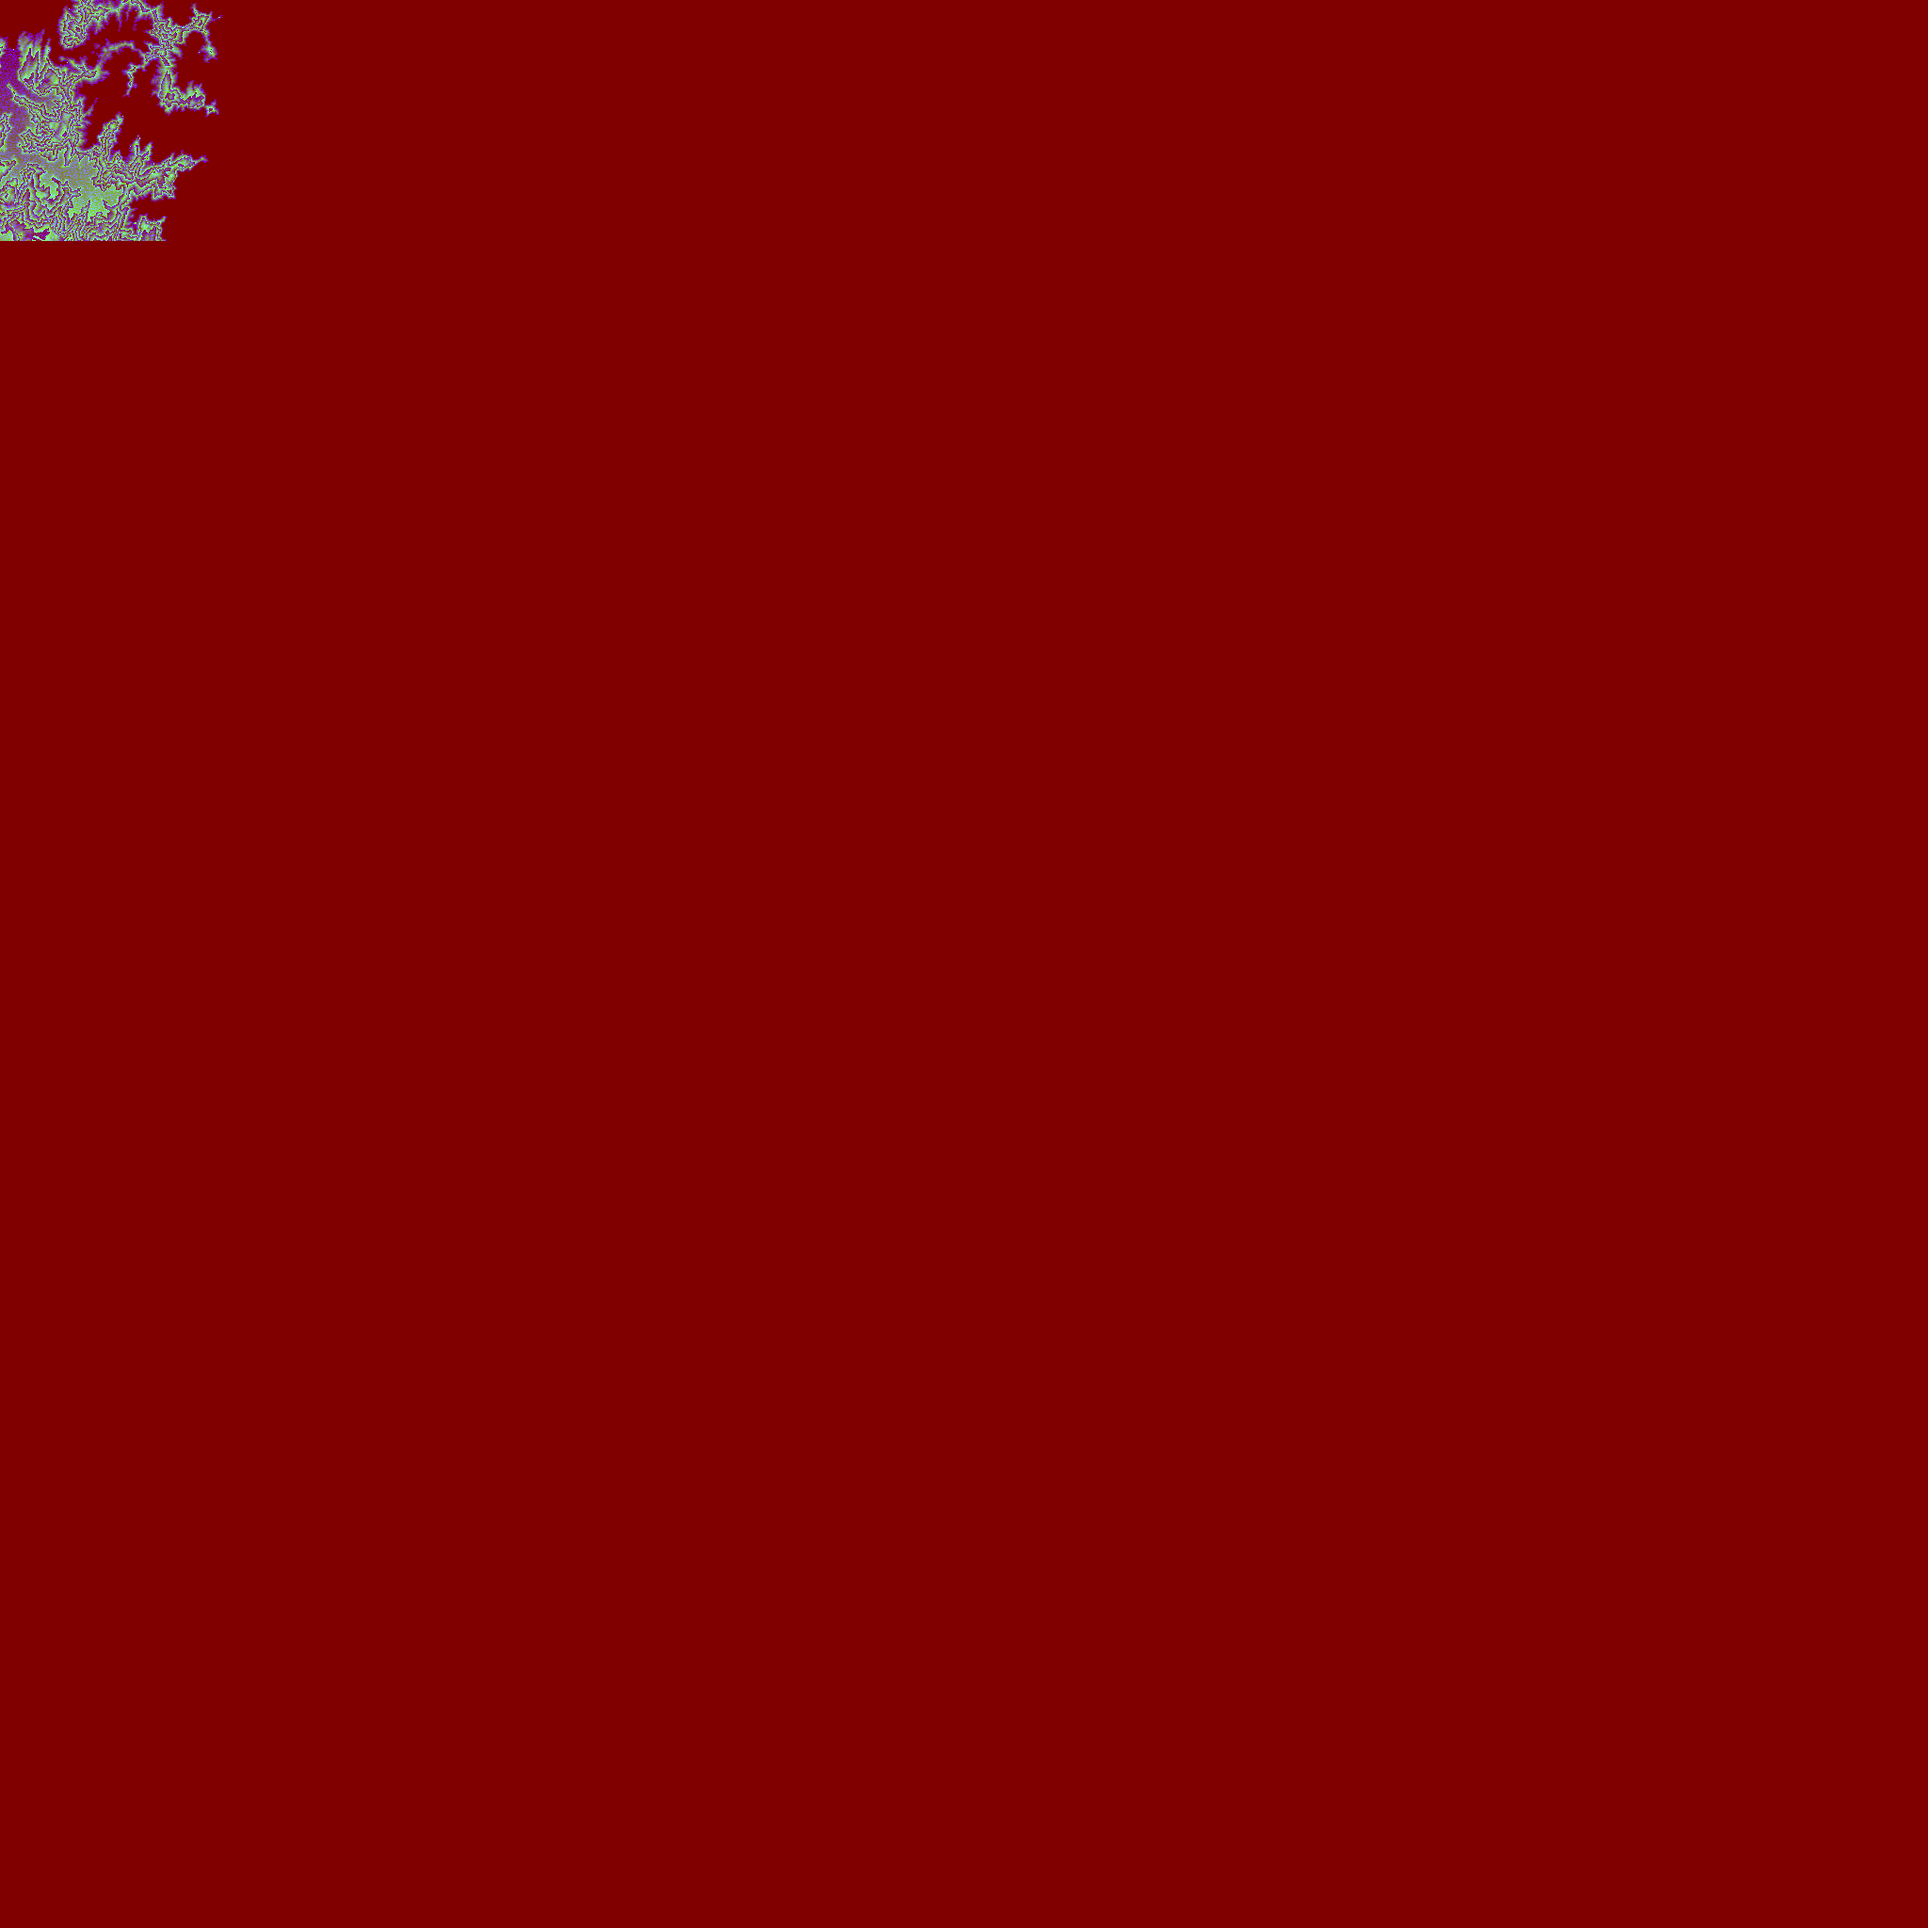
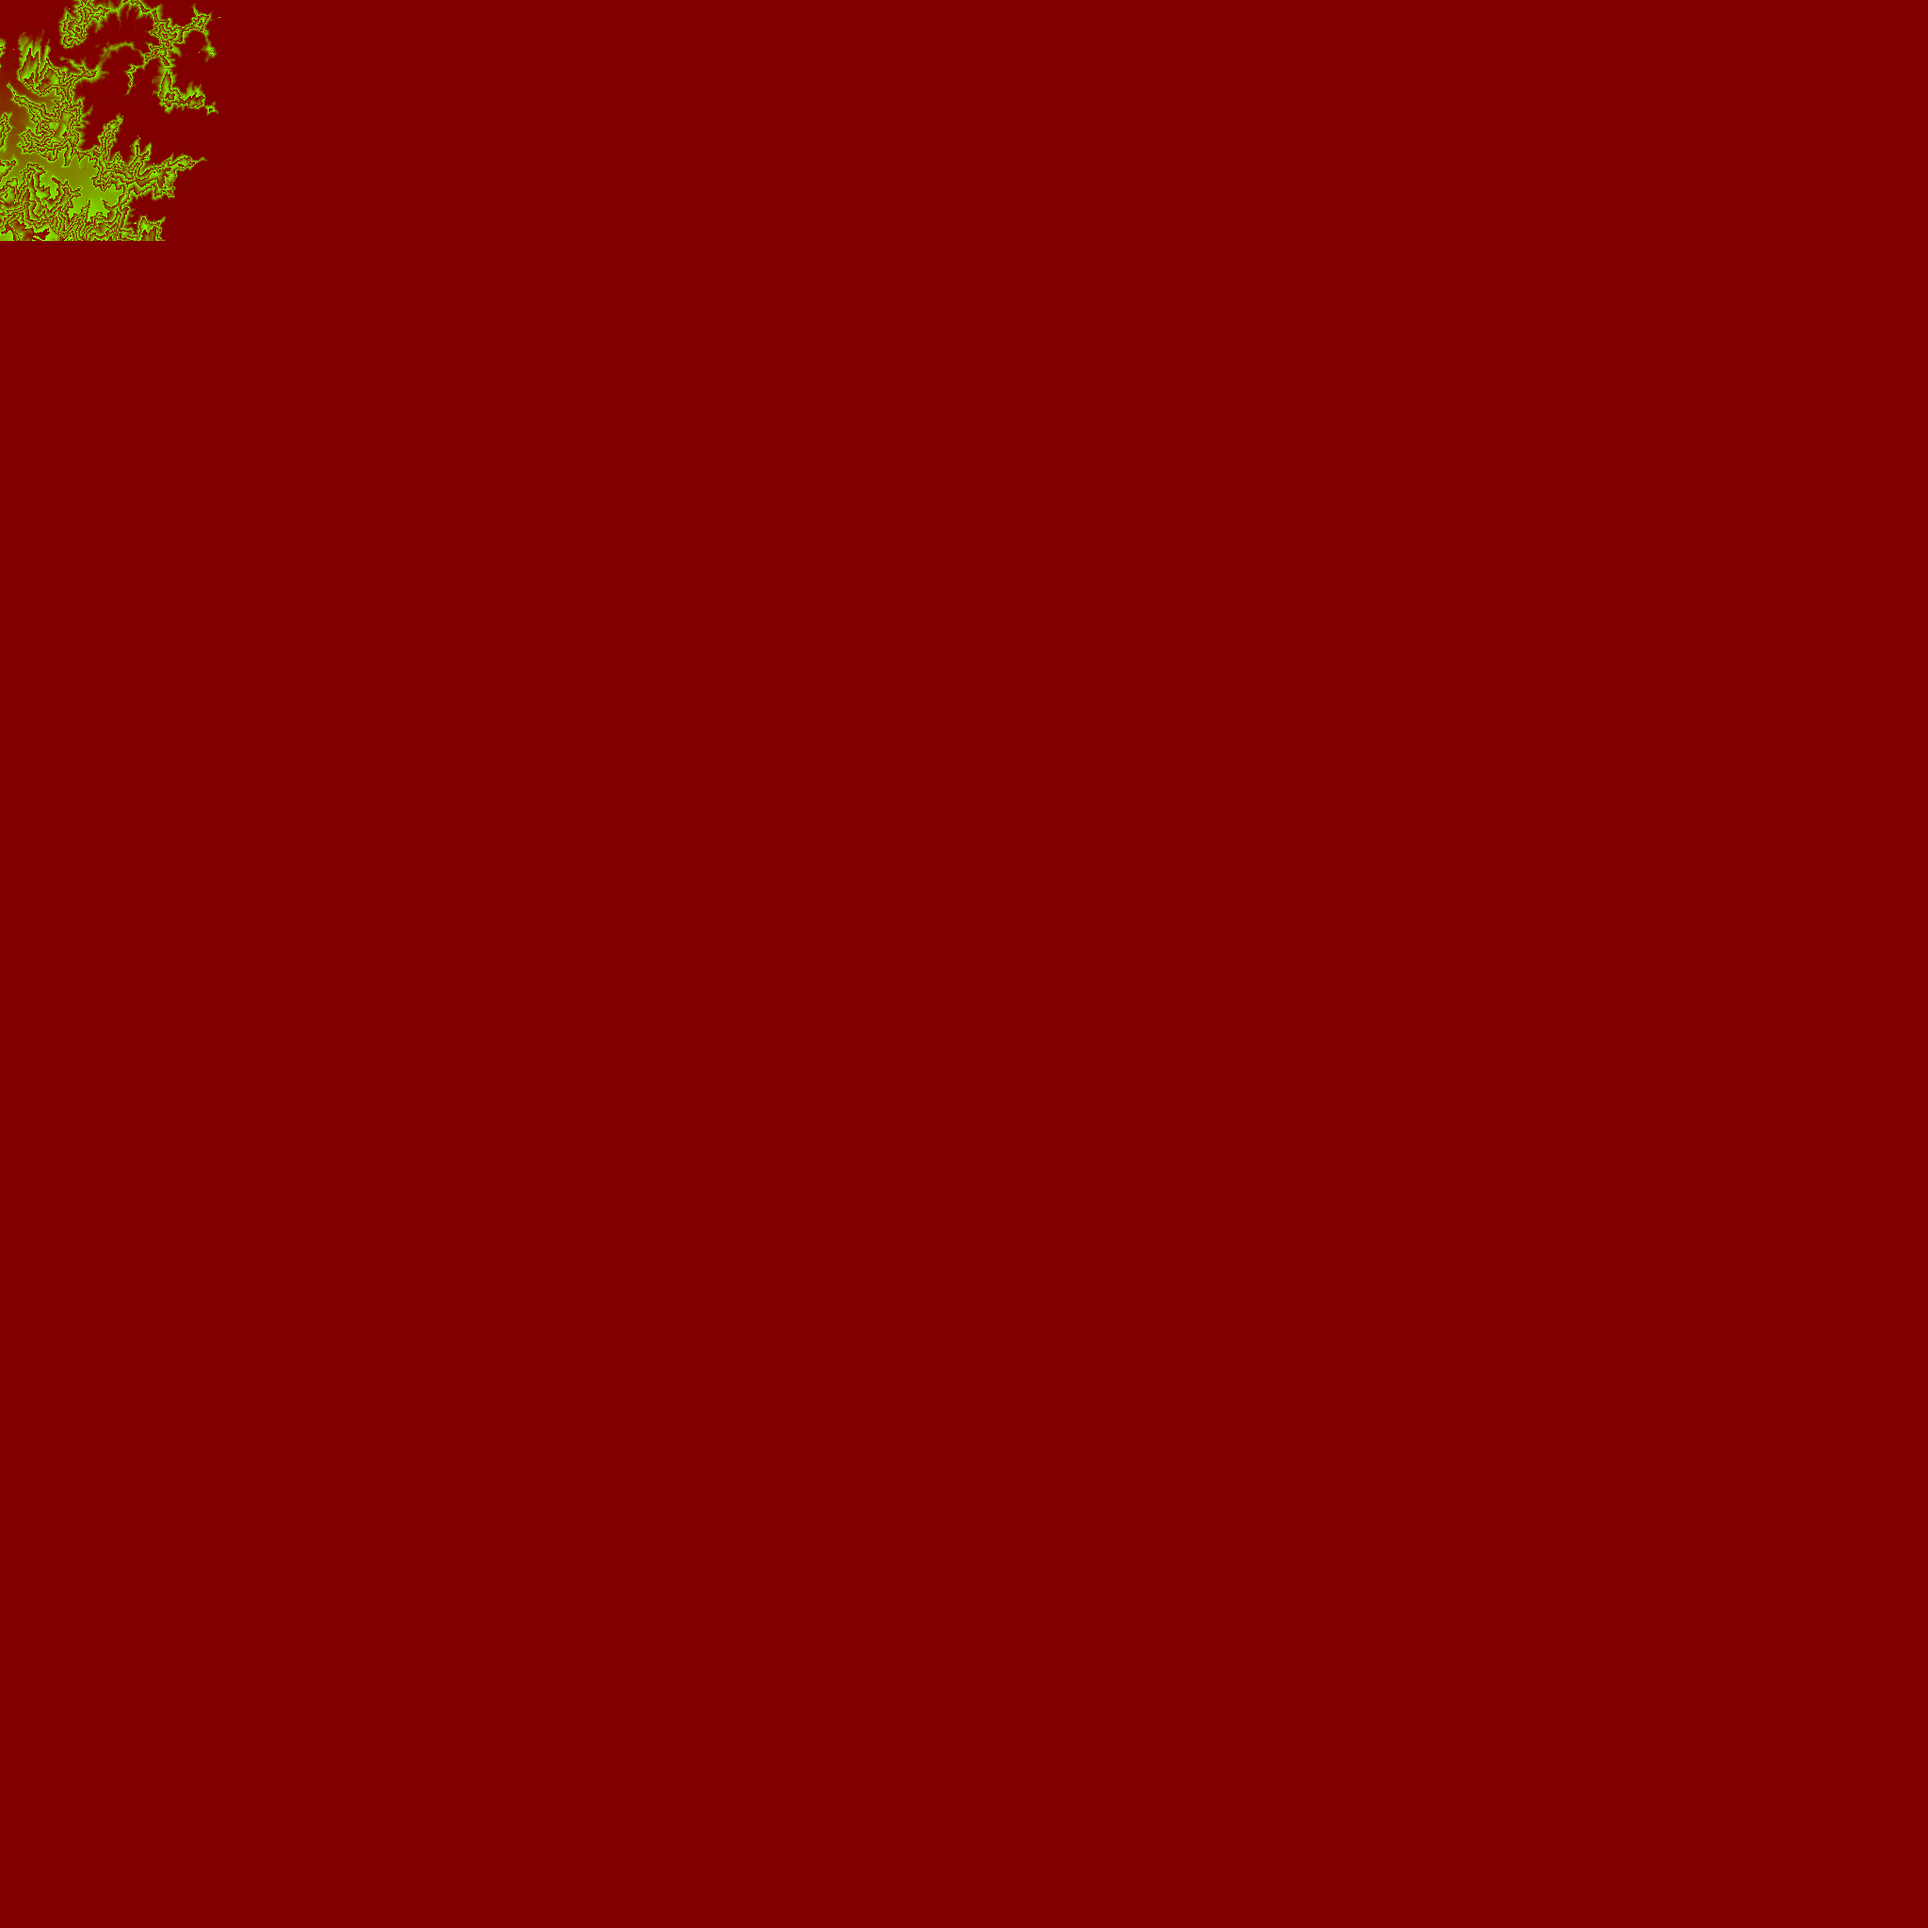
Smaller hi-res terrain atlases
Claude-Session: https://claude.ai/code/session_01PKf9FXgx2mUELuaeWkfGG5

Changed region(s): [[0.0, 0.0, 0.125, 0.125]]

diff --git a/analysis/src/analog/grid_layers.py b/analysis/src/analog/grid_layers.py
@@ -159,7 +159,9 @@ def _pack(cells: list[dict[str, Any]], layers: dict[str, dict[str, Any]]) -> Non
                     rgb[..., 1] = lay["water"]
                 atlases[key].paste(Image.fromarray(rgb, "RGB"), (hm["col"] * px, hm["row"] * px))
             elif kind == "hd" and "hd" in lay:
-                atlases[key].paste(Image.fromarray(terrarium_encode(lay["hd"]), "RGB"), (hm["col"] * px, hm["row"] * px))
+                rgb = terrarium_encode(lay["hd"])
+                rgb[..., 2] = 0  # whole metres are plenty for drawing; keeps each atlas ~3 MB instead of ~8 MB
+                atlases[key].paste(Image.fromarray(rgb, "RGB"), (hm["col"] * px, hm["row"] * px))
     for key, img in atlases.items():
         img.save(ATLAS_DIR / key, "PNG", optimize=True)
 
